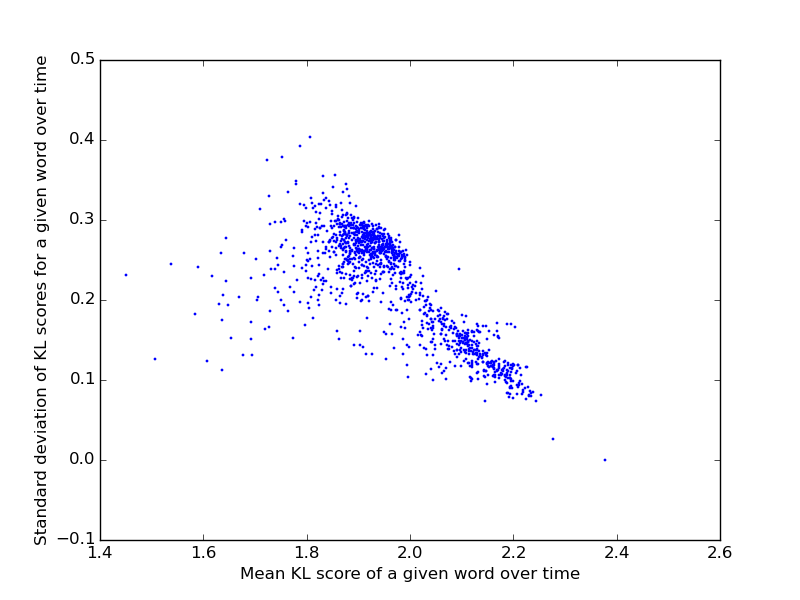
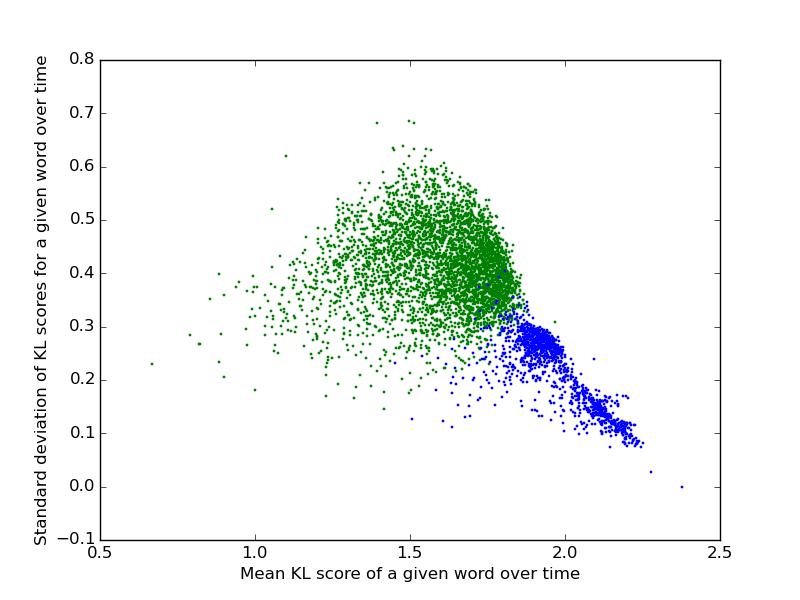
graphed the same kinda stuff for old words: mean and stddev are not bimodal, but histogram of all scores is bimodal (perhaps the left mode is all junk); also, old words are a notably different cluster on mean vs stddev scatterplots

diff --git a/graph_and_stuff.py b/graph_and_stuff.py
@@ -10,8 +10,7 @@ KLs_filename = '_word_symKL_scores.txt'
 # - one of all KL scores for all new words,
 # - one of the mean KL score for each new word, and
 # - another of stddev of the KL scores for each new word.
-#oldnew = ('old','new')
-oldnew = ['new']
+oldnew = ('old','new')
 kl_scores = dict()
 flat_kl_scores = dict()
 kl_means = dict()
@@ -63,7 +62,7 @@ plt.close()
 
 
 
-# Make another scatterplot of tuples (mean, stddev) for only new
+# Make a scatterplot of tuples (mean, stddev) for only new
 # words, where the point is colored by the time of the word's
 # first appearance.
 def string_to_date(date):
@@ -85,7 +84,7 @@ colors = [ plt.cm.coolwarm((first_appearances[word][0]-1970)/(2000-1970))
            for word in kl_scores['new'].keys() ]
 fig, ax = plt.subplots()
 ax.set_axis_bgcolor('0.25')
-ax.scatter(stddevs, means, s=1, color=colors)
+ax.scatter(means, stddevs, s=1, color=colors)
 plt.xlabel('Mean KL score of a given word over time')
 plt.ylabel('Standard deviation of KL scores for a given word over time')
 plt.savefig('plots/scatter_symKL_mean_vs_std_with_yr.png')
@@ -124,7 +123,8 @@ ax.scatter(partial_stddevs, partial_means, s=1, color=colors)
 plt.xlabel('Mean KL score of a given word over {} years'.format(num_years))
 plt.ylabel('Standard deviation of KL scores of a given word over {} years'
            .format(num_years))
-plt.savefig('plots/scatter_symKL_partial_mean_vs_std_with_yr.png')
+plt.savefig('plots/scatter_symKL_partial{}_mean_vs_std_with_yr.png'
+            .format(num_years))
 plt.close()
 
 plt.hist(partial_means, bins=70)
